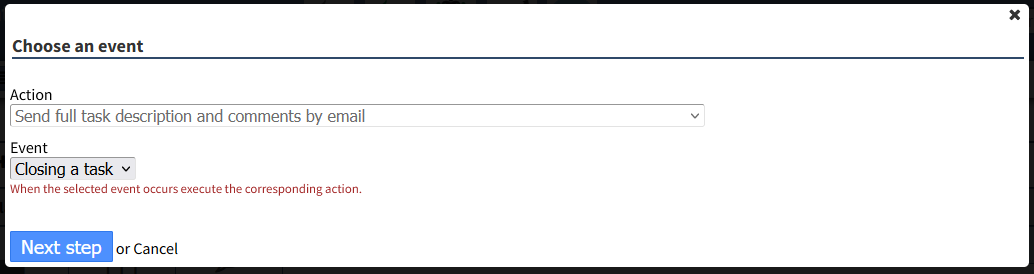
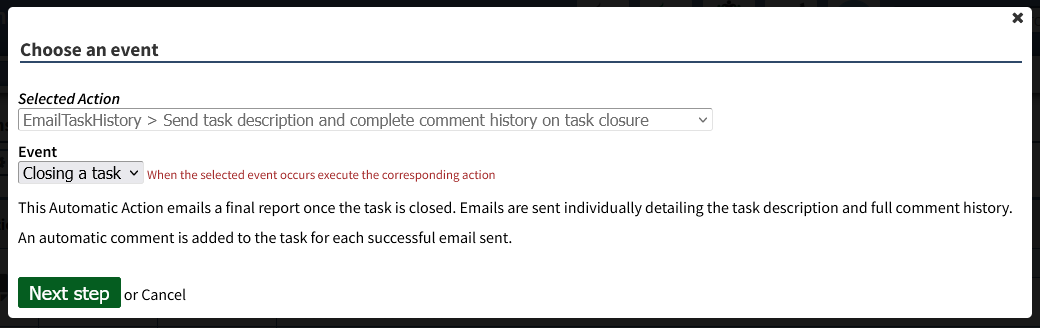
Update Screenshots
- #17
- #20

Changed region(s): [[0.0, 0.0, 1.0, 0.9927]]

diff --git a/README.md b/README.md
@@ -22,23 +22,27 @@ Screenshots
 
 ![Automatic Actions](../master/Screenshots/usage-2.png "Automatic Actions")
 
-**Send full task description and comments by email**
+**EmailTaskHistory > Send task description and complete comment history on task closure**
 
-![Send full task description and comments by email](../master/Screenshots/usage-3.png "Send full task description and comments by email")
+![EmailTaskHistory > Send task description and complete comment history on task closure](../master/Screenshots/usage-3.png "EmailTaskHistory > Send task description and complete comment history on task closure")
 
-**Options are pre-filled**
+**Options are pre-filled in an improved user-friendly form**
 
 ![Options are pre-filled](../master/Screenshots/usage-4.png "Options are pre-filled")
 
-**Define parameter values**
+**Options for this Automatic Action**
 
 ![Define parameter values](../master/Screenshots/usage-5.png "Define parameter values")
+
+**Automatic Action listed in the Project Settings - compatible with [AutomaticActionUX](https://github.com/aljawaid/AutomaticActionUX)**
+
+![Project Settings](../master/Screenshots/usage-6.png "Project Settings")
 
 
 Usage
 -------------
 
-Go to `Project` &#10562; `Automatic Actions` &#10562; `Send full task description and comments by email` &#10562; _Enter parameter values for the action_
+Go to `Project` &#10562; `Automatic Actions` &#10562; `EmailTaskHistory > Send task description and complete comment history on task closure` &#10562; _Enter parameter values for the action_
 
 
 Compatibility
